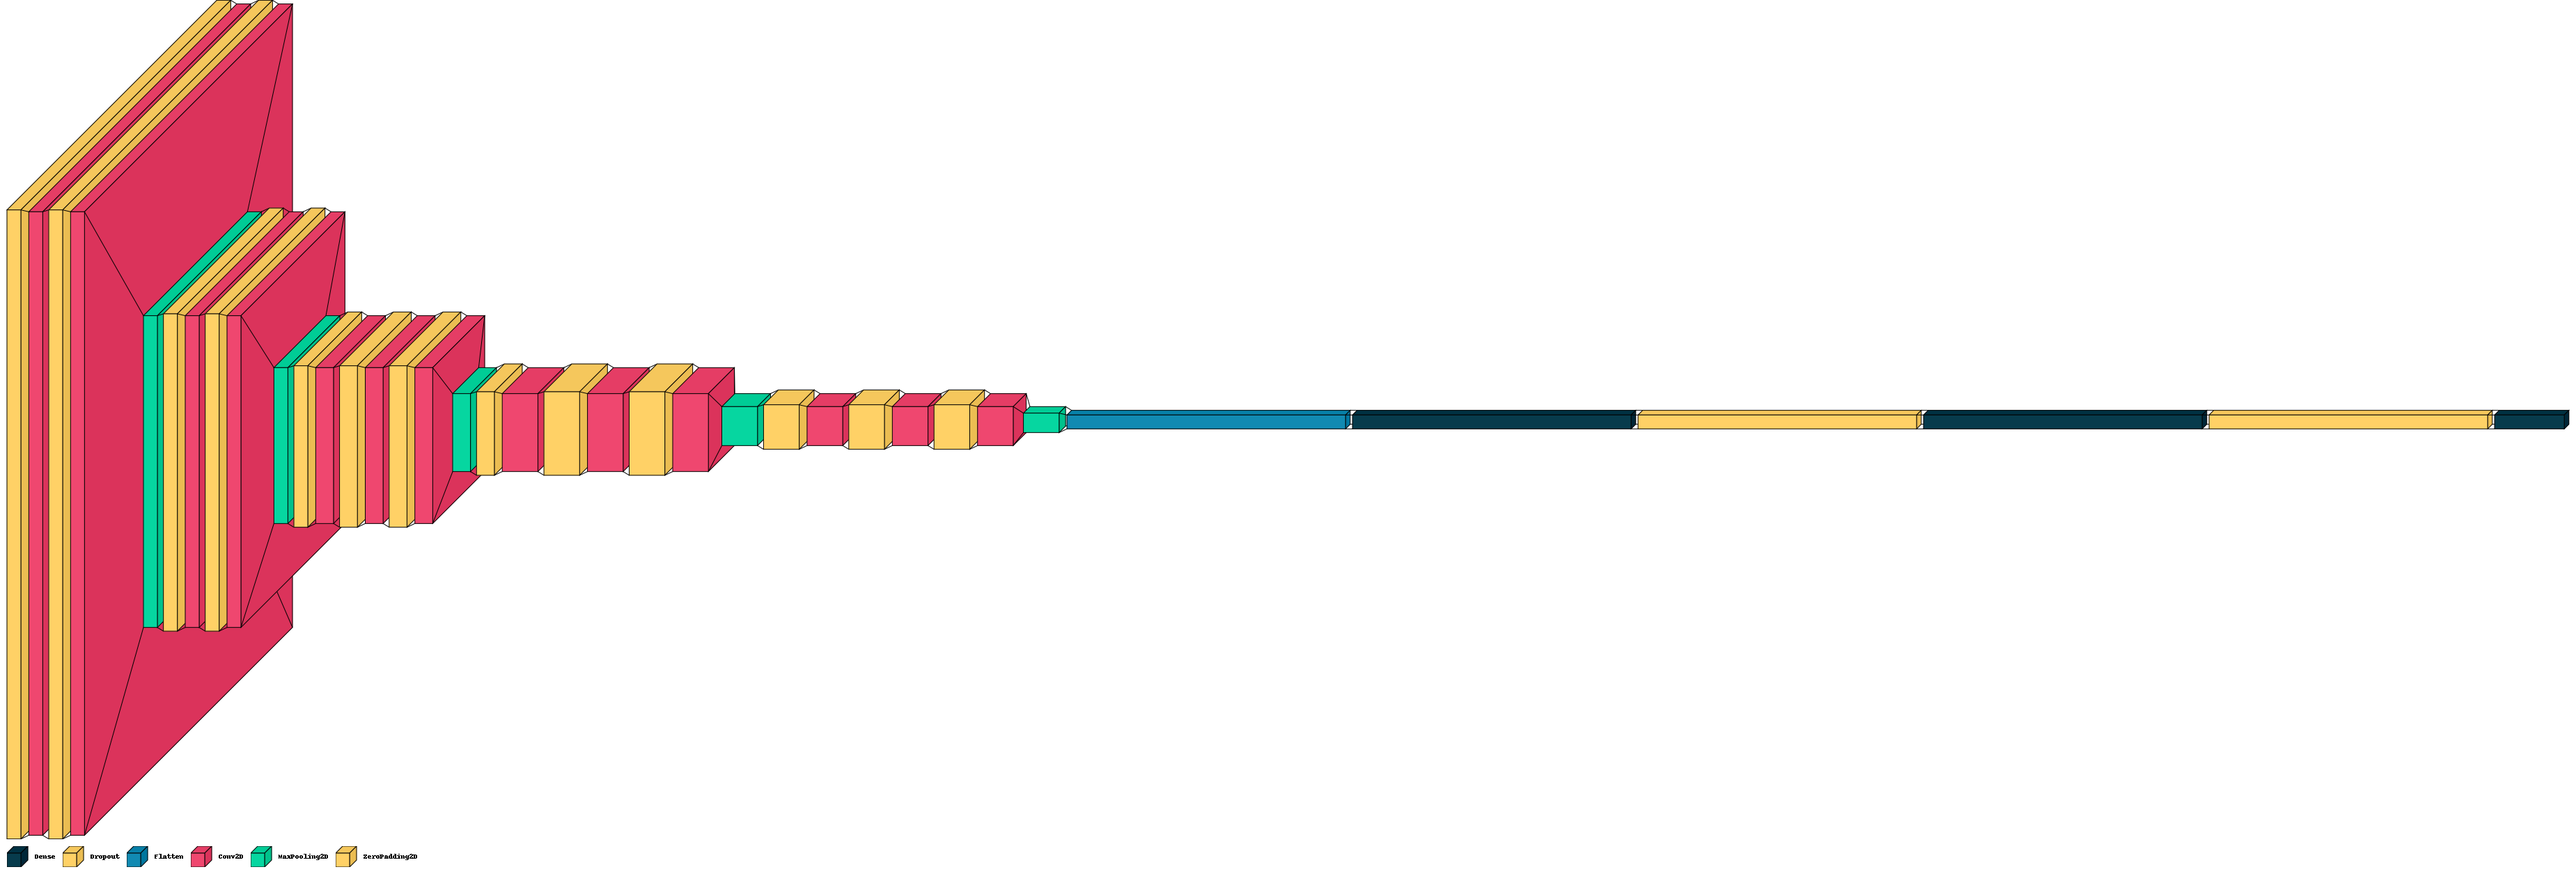
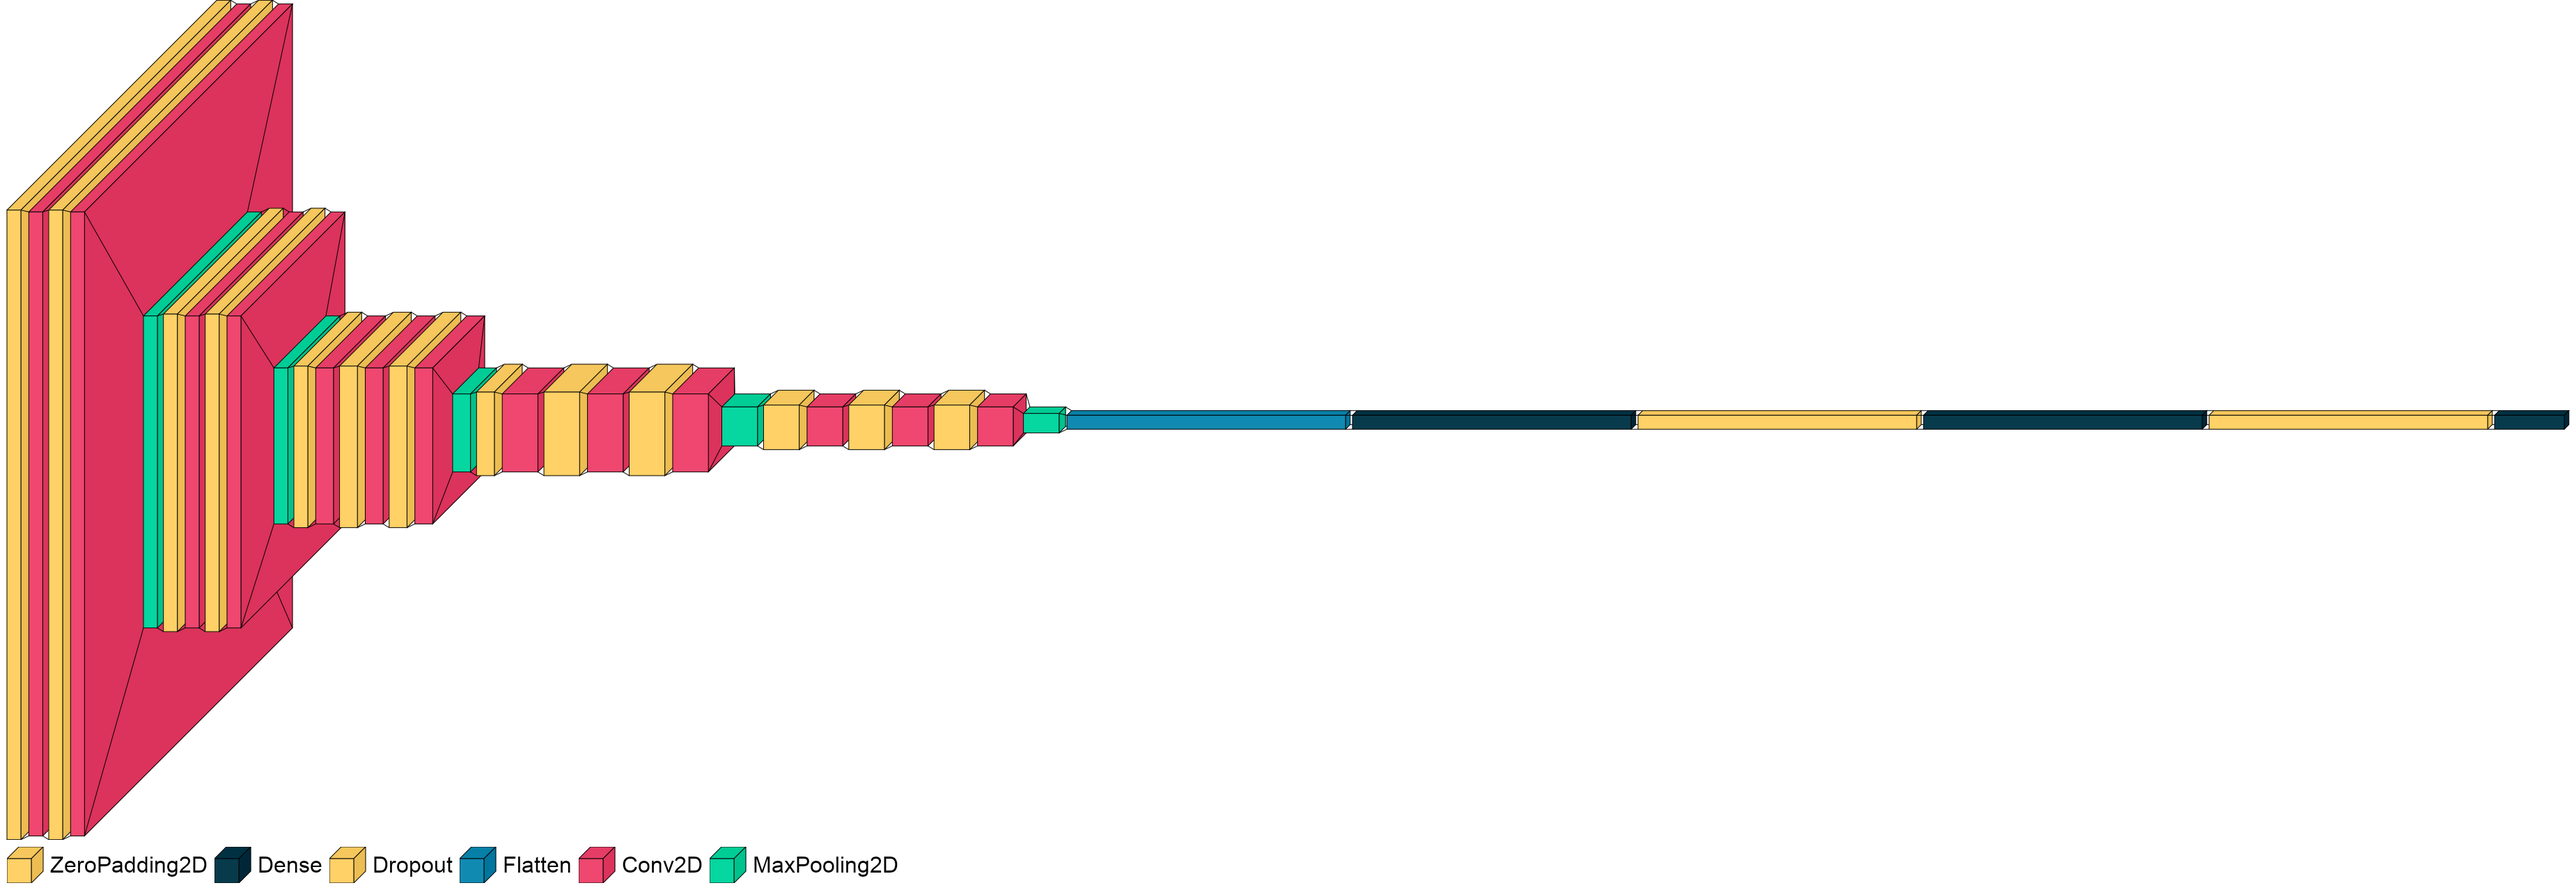
README: Update legend section with info about custom fonts

diff --git a/examples/vgg16.py b/examples/vgg16.py
@@ -2,6 +2,7 @@ from tensorflow.python.keras.models import Sequential
 from tensorflow.python.keras.layers import Dense, Flatten, Conv2D, Dropout, MaxPooling2D, InputLayer, ZeroPadding2D
 from collections import defaultdict
 import visualkeras
+from PIL import ImageFont
 
 # create VGG16
 image_size = 224
@@ -67,9 +68,11 @@ color_map[MaxPooling2D]['fill'] = 'red'
 color_map[Dense]['fill'] = 'green'
 color_map[Flatten]['fill'] = 'teal'
 
+font = ImageFont.truetype("arial.ttf", 32)
+
 visualkeras.layered_view(model, to_file='../figures/vgg16.png', type_ignore=[visualkeras.SpacingDummyLayer])
 visualkeras.layered_view(model, to_file='../figures/vgg16_legend.png', type_ignore=[visualkeras.SpacingDummyLayer],
-                         legend=True)
+                         legend=True, font=font)
 visualkeras.layered_view(model, to_file='../figures/vgg16_spacing_layers.png', spacing=0)
 visualkeras.layered_view(model, to_file='../figures/vgg16_type_ignore.png',
                          type_ignore=[ZeroPadding2D, Dropout, Flatten, visualkeras.SpacingDummyLayer])

diff --git a/README.md b/README.md
@@ -54,8 +54,16 @@ visualkeras.layered_view(model)
 ![Default view of a VGG16 CNN](figures/vgg16.png)
 
 ###### Legend
+
+You can set the legend parameter to describe the relationship between color and layer types. It is also possible to pass
+a custom `PIL.ImageFont` to use (or just leave it out and visualkeras will use the default PIL font). Please note that 
+you may need to provide the full path of the desired font depending on your OS.
+
 ```python
-visualkeras.layered_view(model, legend=True)
+from PIL import ImageFont
+
+font = ImageFont.truetype("arial.ttf", 32)  # using comic sans is strictly prohibited!
+visualkeras.layered_view(model, legend=True, font=font)  # font is optional!
 ```
 ![Layered view of a VGG16 CNN with legend](figures/vgg16_legend.png)
 
